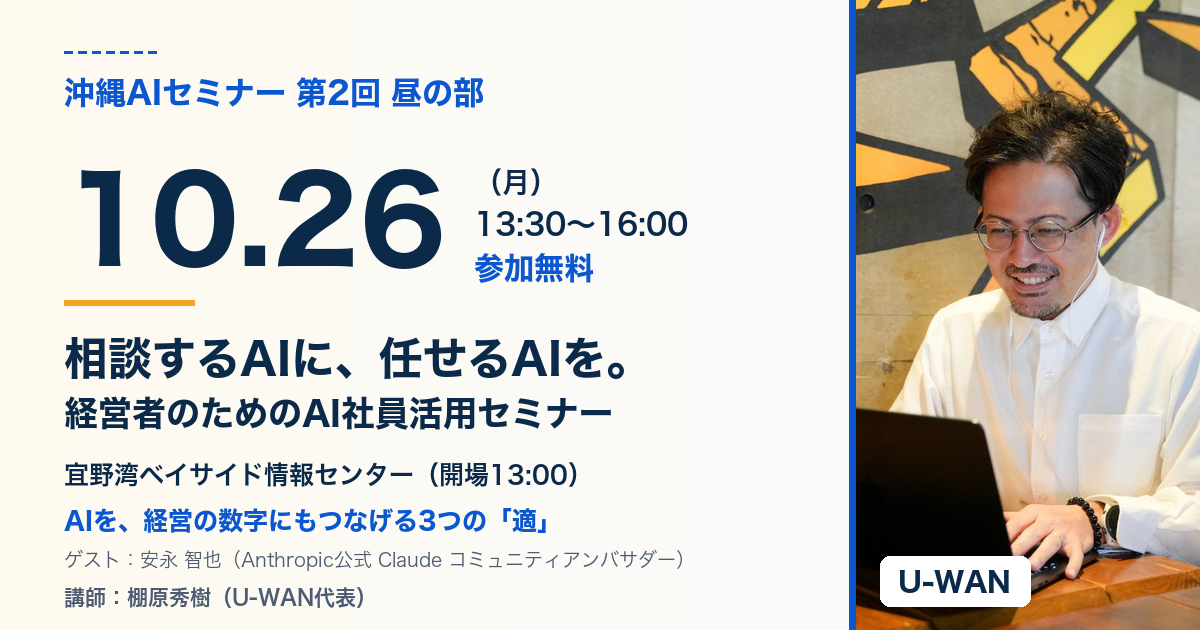
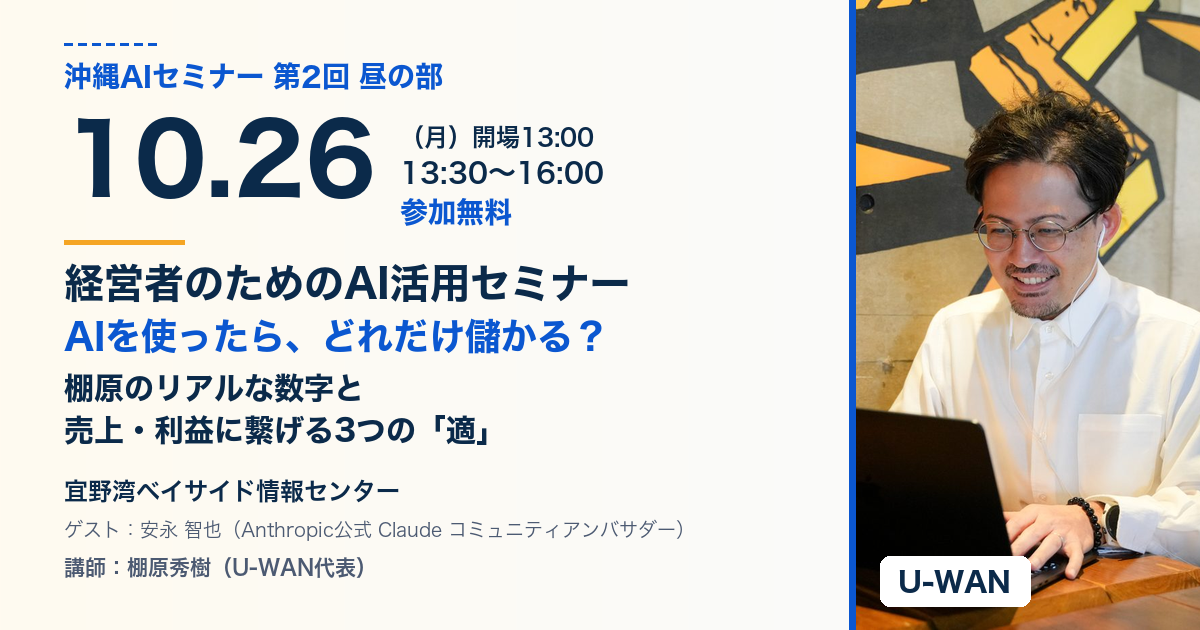
feat(hiru LP): apply copy v1.3 and v1.4, new title/OGP, motion polish

Changed region(s): [[0.0308, 0.0603, 0.5858, 0.9651]]

diff --git a/okinawa-ai-seminar-02-hiru/index.html b/okinawa-ai-seminar-02-hiru/index.html
@@ -5,11 +5,11 @@
 <meta name="viewport" content="width=device-width, initial-scale=1">
 <meta name="robots" content="index, follow">
 <link rel="canonical" href="https://u-wan.jp/okinawa-ai-seminar-02-hiru/">
-<title>沖縄AIセミナー 第2回 昼の部｜相談するAIに、任せるAIを。経営者のためのAI社員活用セミナー</title>
-<meta name="description" content="2026年10月26日（月）開場13:00／13:30〜16:00、宜野湾で開く経営者・経営層向けの参加無料のセミナーです。AIを経営の数字につなげる3つの「適」を、棚原が実際の画面でお見せします。セミナーの後に安永智也さんがコメント。定員30名・先着順、会場参加のみ。">
+<title>沖縄AIセミナー 第2回 昼の部｜経営者のためのAI活用セミナー〜AIを使ったら、どれだけ儲かる？棚原のリアルな数字と売上・利益に繋げる3つの「適」〜</title>
+<meta name="description" content="2026年10月26日（月）開場13:00／13:30〜16:00、宜野湾で開く経営者・経営層向けの参加無料のセミナーです。棚原のリアルな数字と、AI社員が実際に働いている画面をお見せします。セミナーの後に安永智也さんがコメント。定員30名・先着順、会場参加のみ。">
 <meta property="og:type" content="website">
-<meta property="og:title" content="沖縄AIセミナー 第2回 昼の部｜相談するAIに、任せるAIを。経営者のためのAI社員活用セミナー">
-<meta property="og:description" content="2026年10月26日（月）宜野湾で開く、経営者・経営層向けの参加無料のセミナーです。AIを経営の数字につなげる3つの「適」を、実際の画面でお見せします。定員30名・先着順。">
+<meta property="og:title" content="沖縄AIセミナー 第2回 昼の部｜経営者のためのAI活用セミナー〜AIを使ったら、どれだけ儲かる？棚原のリアルな数字と売上・利益に繋げる3つの「適」〜">
+<meta property="og:description" content="2026年10月26日（月）宜野湾で開く、経営者・経営層向けの参加無料のセミナーです。売上・利益に繋げる3つの「適」と、棚原のリアルな数字をお見せします。定員30名・先着順。">
 <meta property="og:url" content="https://u-wan.jp/okinawa-ai-seminar-02-hiru/">
 <meta property="og:image" content="https://u-wan.jp/okinawa-ai-seminar-02-hiru/assets/ogp.png">
 <meta property="og:image:width" content="1200">
@@ -26,8 +26,8 @@
 {
   "@context": "https://schema.org",
   "@type": "Event",
-  "name": "沖縄AIセミナー 第2回 昼の部｜経営者のためのAI社員活用セミナー",
-  "description": "2026年10月26日（月）宜野湾で開く、経営者・経営層向けの参加無料のセミナーです。AIを経営の数字につなげる3つの「適」を、実際の画面でお見せします。定員30名・先着順。",
+  "name": "沖縄AIセミナー 第2回 昼の部｜経営者のためのAI活用セミナー〜AIを使ったら、どれだけ儲かる？棚原のリアルな数字と売上・利益に繋げる3つの「適」〜",
+  "description": "2026年10月26日（月）宜野湾で開く、経営者・経営層向けの参加無料のセミナーです。売上・利益に繋げる3つの「適」と、棚原のリアルな数字をお見せします。定員30名・先着順。",
   "doorTime": "2026-10-26T13:00:00+09:00",
   "startDate": "2026-10-26T13:30:00+09:00",
   "endDate": "2026-10-26T16:00:00+09:00",
@@ -56,20 +56,21 @@
     <div class="hero-copy">
       <div class="hero-top">
         <p class="series-tag">沖縄AIセミナー 第2回 昼の部</p>
-        <h1 id="hero-title" class="hero-title"><span class="nb">相談するAIに、</span><span class="nb">任せるAIを。</span><span class="nb">経営者のための</span><span class="nb">AI社員活用セミナー</span></h1>
+        <h1 id="hero-title" class="hero-title hero-title--long"><span class="nb">経営者のためのAI活用セミナー</span><span class="nb">〜AIを使ったら、</span><span class="nb j">どれだけ儲かる？</span><span class="nb">棚原のリアルな数字と</span><span class="nb">売上・利益に繋げる</span><span class="nb">3つの「適」〜</span></h1>
       </div>
       <div class="hero-main">
-        <p class="hero-lead"><span class="nb">AIを、経営の数字にもつなげる。</span><span class="nb">3つの「適」を、</span><span class="nb">棚原が実際の画面でお見せします。</span></p>
+        <p class="hero-lead"><span class="nb">売上・利益を上げるAI活用「3適」と</span><span class="nb">月給460円で働くAI社員のリアルを</span><span class="nb">お見せします</span></p>
         <p class="hero-sub">10月26日（月）の午後、宜野湾で開く、経営者・経営層向けの参加無料のセミナーです。すでにAIを使っている方も、これから本格的に使う方も、ご参加いただけます。<br>
-          棚原が、AI社員の動き方や、AIを経営の数字につなげるための3つのポイントを、実際の画面を見ながらお話しします。セミナーの後には、Anthropic公式アンバサダーの安永智也さんからもコメントをいただきます。</p>
+          棚原が、人とともに働くAI社員の画面と、棚原自身の数字を、実際のデータでお見せします。「3適」は、AIを売上・利益に繋げるために棚原が整えた3つのポイントです。中身は、当日お話しします。<br>セミナーの後には、Anthropic公式アンバサダーの安永智也さんからもコメントをいただきます。</p>
 
         <div class="for-whom">
           <p class="for-title">こんな方に</p>
           <ul>
-            <li>すでにAIを仕事で使っていて、経営の数字にもつなげていきたい経営者・経営層の方</li>
+            <li>すでにAIを仕事で使っていて、売上・利益にも繋げていきたい経営者・経営層の方</li>
             <li>これからAIを本格的に使っていきたい経営者・経営層の方</li>
             <li>Claude Codeや「AI社員」に関心のある経営者・経営層の方で、実際の動きを見てみたい方</li>
           </ul>
+          <p class="for-note">※経営者・経営層の方のみのご参加となります。経営判断の視点を中心にお話しするセミナーのため、社員の方のご参加はご遠慮いただいています。恐れ入りますが、ご了承ください。</p>
         </div>
 
         <dl class="info-mini">
@@ -104,7 +105,7 @@
   <div class="wrap">
     <ul class="num-grid num-grid4">
       <li><b class="num">75<small>名</small></b><span>棚原が一緒に働いているAI社員の数（2026年10月時点）</span></li>
-      <li><b class="num">3<small>つ</small></b><span>当日お話しする要点（適切なツール・適切な順序・適切なゴール設定）</span></li>
+      <li><b class="num">3<small>つ</small></b><span>AIを売上・利益に繋げるポイント「3適」</span></li>
       <li><b class="num">30<small>名</small></b><span>定員（先着順・会場参加のみ）</span></li>
       <li><b class="num">無料</b><span>参加費</span></li>
     </ul>
@@ -114,7 +115,7 @@
 <!-- ========== 3. 今回の入り口 ========== -->
 <section class="section sec-sky">
   <div class="wrap">
-    <h2 class="sec-title">いまのAI活用に、<wbr>「経営の数字」への道すじを足してみませんか</h2>
+    <h2 class="sec-title">いまのAI活用に、<wbr>「売上・利益」への道すじを足してみませんか</h2>
     <div class="card-grid-3">
       <article class="card feel">
         <span class="no">01</span>
@@ -123,18 +124,18 @@
       </article>
       <article class="card feel">
         <span class="no">02</span>
-        <h3>浮いた時間を、新しい取り組みにも</h3>
-        <p>パーソル総合研究所の調査では、生成AIで浮いた時間のうち約6割が、「仕事をする」ことに使われているとされています。<br>時間が生まれたら、その一部を、新しい商品やサービスを考える時間にも向けられたら、AIの活用はもう一段広がります。</p>
+        <h3>浮いた時間は、仕事に活かされています</h3>
+        <p>パーソル総合研究所の調査では、生成AIで浮いた時間のうち約6割が、「仕事をする」ことに使われているとされています。<br>AIで生まれた時間が、すでに仕事に活かされている方は多いと言えます。</p>
       </article>
       <article class="card feel">
         <span class="no">03</span>
-        <h3>効率化の先にある「経営の数字」</h3>
-        <p>IPA『DX動向2026』では、AIを導入・活用して、顧客満足度が向上したか、売上や利益が向上したかという問いに「はい」と答えた方が、それぞれ4.5%、3.9%とされています。<br>効率化の効果を感じている方は多く、その先にある経営の数字は、これから取り組む余地が大きい領域とも言えます。</p>
+        <h3>効率化の先にある「売上・利益」</h3>
+        <p>IPA『DX動向2026』では、AIを導入・活用して、顧客満足度が向上したか、売上や利益が向上したかという問いに「はい」と答えた方が、それぞれ4.5%、3.9%とされています。<br>効率化の効果を感じている方は多く、その先にある売上・利益は、これから取り組む余地が大きい領域とも言えます。</p>
       </article>
     </div>
     <aside class="self-note">
       <h3>棚原自身のこと</h3>
-      <p>棚原自身も、AIを使い始めてしばらくは、数字が横ばいの時期がありました。<br>今年から「3つの適」を整えて、稼働時間は変えずに仕事の中身を変えたところ、数字が変わり始めました。<br>棚原の場合は、という実体験として、当日お話しします。</p>
+      <p>棚原自身も、AIを使い始めてしばらくは、数字が横ばいの時期がありました。<br>今年から「3適」を整えて、稼働時間は変えずに仕事の中身を変えたところ、数字が変わり始めました。これは、棚原の場合の実体験です。<br>2024年から2026年9月までの、月ごとの上下をならして見た粗利の推移を、当日、実際のデータでお見せします。</p>
     </aside>
   </div>
 </section>
@@ -142,7 +143,7 @@
 <!-- ========== 4. 転換の一行 ========== -->
 <section class="turn">
   <div class="wrap wrap--narrow">
-    <p class="turn-line"><span class="nb">そこに、</span><span class="nb">3つの「適」を足すと、</span><span class="nb">AIの恩恵が</span><span class="nb">経営の数字にも</span><span class="nb">届きやすくなります。</span></p>
+    <p class="turn-line"><span class="nb">そこに、</span><span class="nb">3適を足すと、</span><span class="nb">AIの恩恵が</span><span class="nb">売上・利益にも</span><span class="nb">届きやすくなります。</span></p>
   </div>
 </section>
 
@@ -157,50 +158,27 @@
         </picture>
       </div>
       <div class="solution-text">
-        <h2 class="sec-title left">AIを経営の数字につなげる、<br>3つの「適」</h2>
-        <p>スライドと実際の画面を行き来しながら、ざっくばらんにお話しするセミナーです。<br>経営者・経営層の方に向けて、AIを経営の数字につなげるための3つのポイントを、実演を交えてお伝えします。</p>
+        <h2 class="sec-title left">AIを売上・利益に繋げる、<br>3つの「適」</h2>
+        <p>AIを売上・利益に繋げるための3つのポイントを、棚原は「3適」と呼んでいます。<br>その中身は、当日、スライドと実際の画面を行き来しながら、ざっくばらんにお話しします。</p>
       </div>
     </div>
 
-    <ol class="show-list tekis">
+    <h3 class="sub-title">当日、お見せする予定のこと</h3>
+    <ul class="show-list show-list3">
       <li class="card show">
-        <span class="no">適1</span>
-        <h4>適切なツール</h4>
-        <p>ChatGPTなどの「相談するAI」に加えて、パソコンの中で作業を任せられる「任せるAI」（Claude Codeや、AI社員）を使うこと。</p>
+        <h4>棚原のリアルな数字</h4>
+        <p>2024年から2026年9月までの、月ごとの上下をならして見た粗利の推移を、実際のデータでお見せします。</p>
       </li>
       <li class="card show">
-        <span class="no">適2</span>
-        <h4>適切な順序</h4>
-        <p>仕事を「営業・納品・商品企画・納品準備」の4領域に分け、どこから、どの順で、AIに取り組むか。まず何にどれくらい時間がかかっているかを把握し、時間ができたら商品企画や営業にも広げていきます。</p>
+        <h4>AI社員が実際に働いている画面</h4>
+        <p>棚原のAI社員が実際に働いている画面を、サンプルデータで実演します。</p>
       </li>
       <li class="card show">
-        <span class="no">適3</span>
-        <h4>適切なゴール設定</h4>
-        <p>効率化は手段として大切にしたまま、ゴールを「経営の数字」に置くこと。「一人当たり粗利額」や「社長の時給」といった指標の考え方をお話しします。</p>
-      </li>
-    </ol>
-
-    <h3 class="sub-title">お見せする予定のこと</h3>
-    <p class="show-intro">例として、次のようなものを、棚原がサンプルデータでお見せする予定です。<strong>当日の状況により、内容が変わることがあります。</strong></p>
-    <ul class="show-list show-list4">
-      <li class="card show">
-        <h4>フォルダ整理</h4>
-        <p>散らかったファイルを、AI社員が種類ごとに整理する流れ。</p>
-      </li>
-      <li class="card show">
-        <h4>名刺画像を読み込んで、スプレッドシートへ自動転記</h4>
-        <p>サンプルの名刺で、読み込みから転記までの流れ。</p>
-      </li>
-      <li class="card show">
-        <h4>AI社員によるWebページ作成</h4>
-        <p>指示を出してから、複数のAI社員が役割を分担して進める流れ。</p>
-      </li>
-      <li class="card show">
-        <h4>FBAS整理ツール／一人当たり粗利額・社長の時給の計算ツール</h4>
-        <p>棚原が、サンプルの仕事内容や数字を入れて見せる流れ。</p>
+        <h4>月給460円で働くAI社員のリアル</h4>
+        <p>AI社員は、人を置き換えるためではなく、人とともに働くための存在です。その働き方と、今の棚原の使い方をお話しします。</p>
       </li>
     </ul>
-    <p class="show-after">当日の状況により、<strong>note記事の自動下書き</strong>、<strong>請求書の自動作成</strong>や<strong>リマインド</strong>もお見せできるかもしれません。</p>
+    <p class="show-after"><strong>当日の状況により、内容が変わることがあります。</strong></p>
 
     <figure class="wide-photo">
       <picture>
@@ -269,7 +247,7 @@
       </article>
       <article class="qa-card">
         <h3><span class="q">Q2</span>「AIのことが分からなくても、社内の体制が整っていなくても、聴けますか？」</h3>
-        <p>大丈夫です。これからAIを本格的に使う方にも、すでに導入している方にも、参考にしていただける内容です。その両方を持ったままでお聴きください。<br>ChatGPTなどに触れたことがある程度の方を想定してお話しします。</p>
+        <p>大丈夫です。これからAIを本格的に使う方にも、すでに導入している方にも、参考にしていただける内容です。その両方を持ったままでお聴きください。</p>
       </article>
       <article class="qa-card">
         <h3><span class="q">Q3</span>「うちみたいな小さい会社でも、AIの成果は出ますか？」</h3>
@@ -285,7 +263,7 @@
     <h2 class="sec-title">当日の流れ（開場13:00／13:30〜16:00）</h2>
     <p class="flow-lead">時間割は設けず、ざっくばらんに進めます。</p>
     <ol class="flow flow3">
-      <li><span class="no-s">1</span><span>棚原のセミナー（3つの「適」と実演）</span></li>
+      <li><span class="no-s">1</span><span>棚原のセミナー（棚原のリアルな数字と、AI社員の実演）</span></li>
       <li><span class="no-s">2</span><span>安永さんからのコメント</span></li>
       <li><span class="no-s">3</span><span>棚原からのお知らせ</span></li>
       <li><span class="no-s">4</span><span>無料個別相談のお申し込み方法のご案内</span></li>
@@ -300,9 +278,9 @@
     <h2 class="sec-title">参加したあと、こうなっていたらうれしいです</h2>
     <div class="after-grid">
       <ol class="after-list">
-        <li>「相談するAI」と「任せるAI」の違いを、実際の画面で見た記憶として持ち帰ることができる</li>
-        <li>自分の仕事を「営業・納品・商品企画・納品準備」に分けて見る視点を持ち、どこから取り組むかを考えるきっかけになる</li>
-        <li>「一人当たり粗利額」や「社長の時給」を、自社の指標として考えるきっかけになる</li>
+        <li>AI社員が実際に働いている画面を、自分の目で見た記憶として持ち帰ることができる</li>
+        <li>AIを売上・利益に繋げるための視点を、自社に当てはめて考えるきっかけになる</li>
+        <li>棚原のリアルな数字を見て、自社の数字とAI活用を重ねて考えるきっかけになる</li>
         <li>沖縄で、同じようにAIと向き合っている人と顔を合わせられる</li>
         <li>安永さんのコメントを通して、第三者の目線から、自分のAI活用を見つめ直すきっかけになる</li>
       </ol>
@@ -325,8 +303,9 @@
         <tr><th scope="row">日時</th><td>2026年10月26日（月）開場13:00／13:30〜16:00</td></tr>
         <tr><th scope="row">会場</th><td>宜野湾ベイサイド情報センター（沖縄県宜野湾市）<br><a class="text-link" href="https://maps.app.goo.gl/uBUHmyr1VZN5RHfTA" rel="noopener" target="_blank">地図を開く</a></td></tr>
         <tr><th scope="row">参加費</th><td>無料</td></tr>
+        <tr><th scope="row">対象</th><td>経営者・経営層の方（社員の方のご参加はご遠慮いただいています）</td></tr>
         <tr><th scope="row">登壇</th><td>棚原秀樹／ゲスト：安永智也さん（セミナーの後にコメント）</td></tr>
-        <tr><th scope="row">形式</th><td>会場参加のみ。オンライン配信はありません。途中でのご入退場はご遠慮いただいています</td></tr>
+        <tr><th scope="row">形式</th><td>会場参加のみ。オンライン配信はありません。資料の配布・録画はありません。途中でのご入退場はご遠慮いただいています</td></tr>
         <tr><th scope="row">定員</th><td>30名（先着順）</td></tr>
       </tbody>
     </table>
@@ -361,7 +340,15 @@
       </details>
       <details>
         <summary>どんなセミナーですか？</summary>
-        <p>経営者・経営層向けに、AIを経営の数字につなげる3つのポイントを、棚原が実際の画面を見せながらお話しするセミナーです。セミナーの後に、安永智也さんからコメントをいただきます。当日、会場で個別に相談をお受けする時間は設けていません。個別相談をご希望の方には、最後にお申し込み方法をご案内します（相談は後日です）。</p>
+        <p>経営者・経営層向けに、AIを売上・利益に繋げる3つのポイント「3適」と、棚原のAI社員が実際に働いている画面を、棚原自身の数字とあわせてお話しするセミナーです。セミナーの後に、安永智也さんからコメントをいただきます。当日、会場で個別に相談をお受けする時間は設けていません。個別相談をご希望の方には、最後にお申し込み方法をご案内します（相談は後日です）。</p>
+      </details>
+      <details>
+        <summary>社員の方も参加できますか？</summary>
+        <p>経営者・経営層の方のみのご参加となります。経営判断の視点を中心にお話しするセミナーのため、社員の方のご参加はご遠慮いただいています。恐れ入りますが、ご了承ください。</p>
+      </details>
+      <details>
+        <summary>当日の資料の配布や録画はありますか？</summary>
+        <p>資料の配布と録画は行いません。会場でご覧いただく形でお伝えします。</p>
       </details>
       <details>
         <summary>オンラインで見られますか？</summary>
@@ -391,7 +378,7 @@
 <section class="final">
   <div class="wrap wrap--narrow">
     <h2><span class="nb">10月26日の午後、</span><span class="nb">宜野湾でお会いしましょう。</span></h2>
-    <p>AIを使えている、その先の話を、普段の使い方をそのままお見せしながら、お届けします。<br>安永さんからのコメントも、あわせて楽しみにしていてください。<br>ざっくばらんなセミナーですので、肩の力を抜いて来てください。定員は30名、先着順です。</p>
+    <p>棚原のリアルな数字と、AI社員が実際に働いている画面を、そのままお見せします。<br>安永さんからのコメントも、あわせて楽しみにしていてください。<br>ざっくばらんなセミナーですので、肩の力を抜いて来てください。定員は30名、先着順です。</p>
     <a class="btn btn-primary btn-lg" href="https://uw.u-wan.jp/event/mkcg3Sk0tpSh/register">昼の部に申し込む（無料）<span class="arrow" aria-hidden="true"></span></a>
   </div>
 </section>
@@ -425,7 +412,7 @@
   var reduce=window.matchMedia&&window.matchMedia('(prefers-reduced-motion: reduce)').matches;
   if(reduce||!('IntersectionObserver' in window)) return;
   var de=document.documentElement; de.classList.add('js-motion');
-  var sel=['.numbers .num-grid li','.sec-sky .sec-title','.sec-title','.card-grid-3 .feel','.self-note','.turn-line','.solution-photo','.solution-text','.tekis .show','.sub-title','.show-intro','.show-list4 .show','.show-after','.wide-photo','.consult','.speaker','.qa-card','.flow-lead','.flow3 li','.after-list li','.after-photo','.overview','.night','.faq details','.final h2','.final p','.final .btn','.ps-box','.cta-mid','.for-whom'];
+  var sel=['.numbers .num-grid li','.sec-sky .sec-title','.sec-title','.card-grid-3 .feel','.self-note','.turn-line','.solution-photo','.solution-text','.show-list .show','.sub-title','.show-after','.wide-photo','.consult','.speaker','.qa-card','.flow-lead','.flow3 li','.after-list li','.after-photo','.overview','.night','.faq details','.final h2','.final p','.final .btn','.ps-box','.cta-mid','.for-whom'];
   var seen=new Set(), els=[];
   sel.forEach(function(q){document.querySelectorAll('main '+q).forEach(function(el){
     if(seen.has(el)||el.closest('.hero')) return; seen.add(el); els.push(el);});});

diff --git a/okinawa-ai-seminar-02-hiru/style.css b/okinawa-ai-seminar-02-hiru/style.css
@@ -373,3 +373,13 @@ body{padding-bottom:0}
   .js-motion .rv.in:is(.card,.speaker):hover{transform:translateY(-5px);box-shadow:0 22px 44px rgba(11,42,74,.16)}
   .js-motion .rv.in:is(.qa-card,.flow3 li):hover,.js-motion .rv.in:is(.after-list li):hover{transform:translateY(-2px)}
 }
+
+/* v1.3 */
+.hero-title--long{font-size:clamp(22px,5.6vw,36px);line-height:1.5}
+@media (min-width:900px){.hero-title--long{font-size:clamp(28px,2.7vw,36px)}}
+.for-note{margin:10px 0 0;font-size:12.5px;line-height:1.7;color:var(--ink-soft)}
+.show-list3{list-style:none;padding:0;margin:0 0 18px}
+.show-list3 .show{padding-top:22px}
+@media (min-width:700px){.show-list3{grid-template-columns:repeat(3,1fr)}}
+@media (min-width:900px){.hero-title--long{font-size:27px;line-height:1.55}.hero-title--long .nb.j{display:inline}}
+main{overflow-x:clip}
